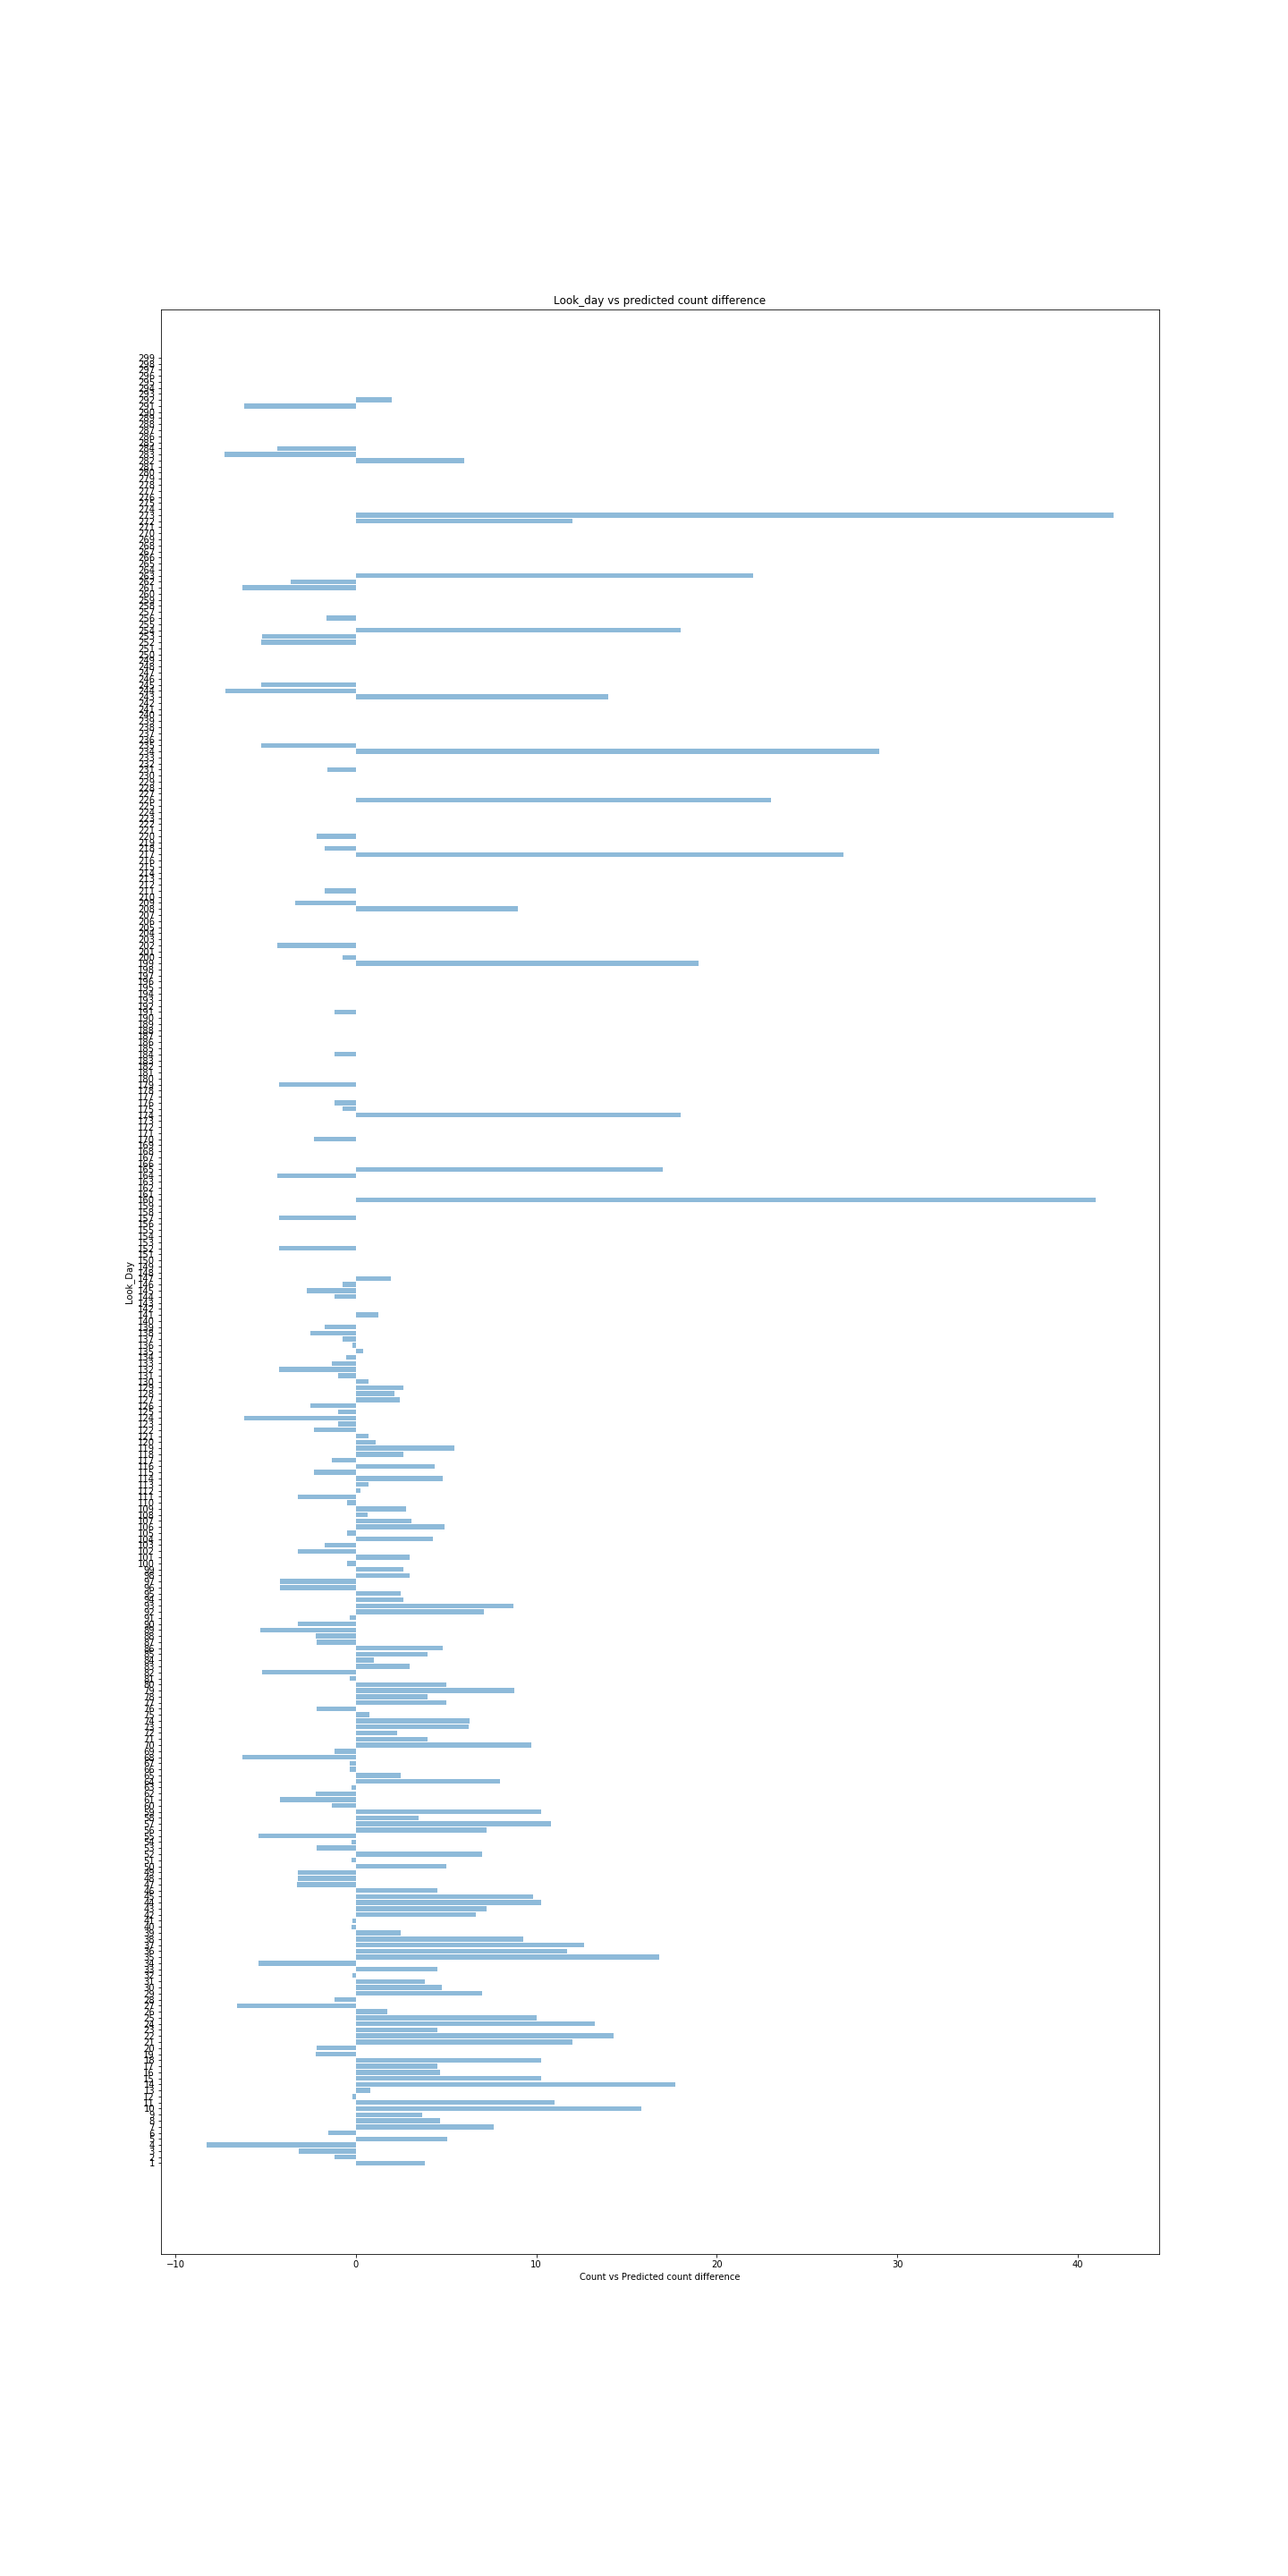
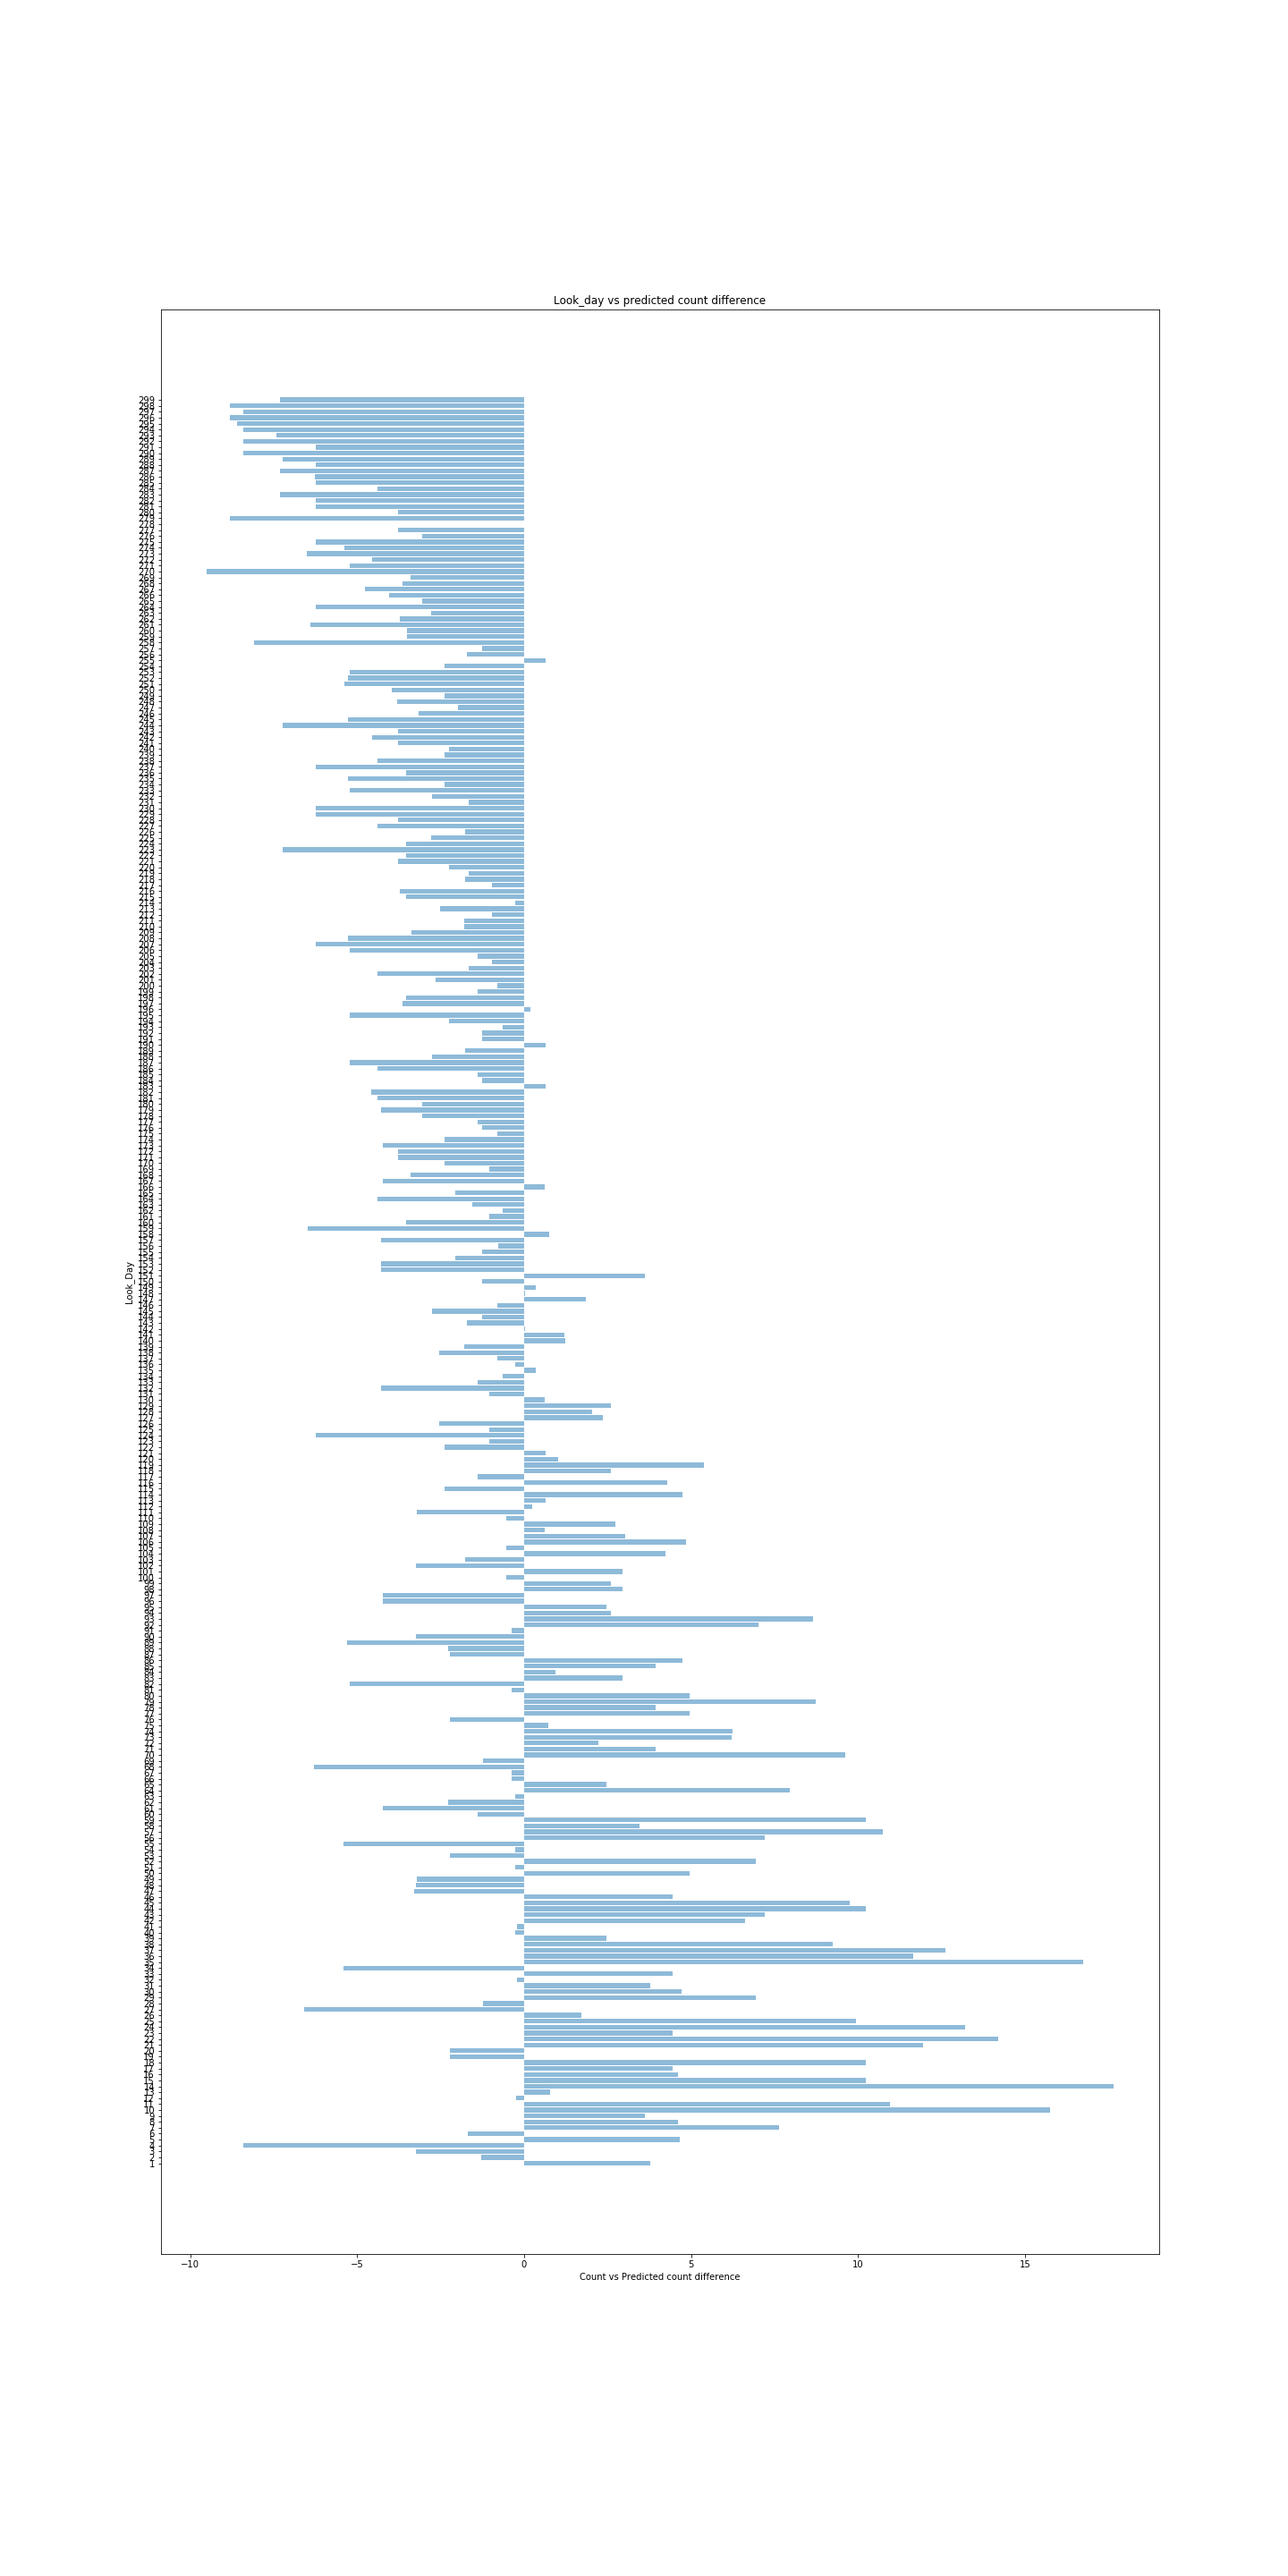
starting cleanup;

Changed region(s): [[0.1875, 0.1562, 0.75, 0.8438], [0.0938, 0.125, 0.125, 0.8125]]

diff --git a/README.md b/README.md
@@ -80,6 +80,7 @@
 - try it with types that are only day of week **DONE**
 - add 1 to available rooms everytime avail goes into negatives (should only affect DD room type, of which 2 were added in 2018)
   - debug weird negative values
+- try with constraints directly on x's **DONE, SAME BIAS**
 - test with more subdivisions in a day
 - test new lambdas with large scale non-independent choice assumptions
 - check that lambda is treated consistently wrt intraday scaling
